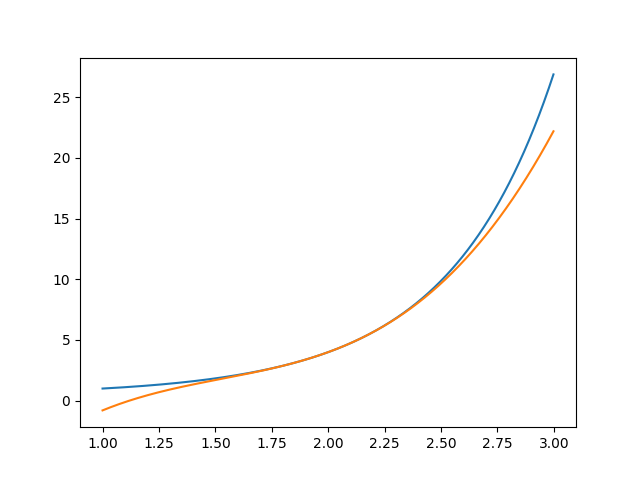
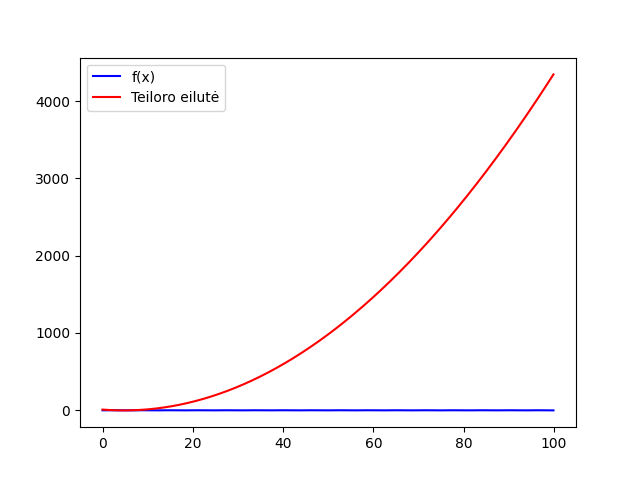
add plot legend

diff --git a/main.py b/main.py
@@ -73,7 +73,9 @@ class Taylor:
         taylor_exp_arr = list(map(taylor_exp_lambda, array))
         
         # Generate and display the plot here
-        pl = plt.plot(array, fx_arr, array, taylor_exp_arr)
+        plt.plot(array, fx_arr, "b-", label="f(x)")
+        plt.plot(array, taylor_exp_arr, "r-", label="Teiloro eilutė")
+        plt.legend(loc="upper left")
         plt.savefig("plot.png")
         self.plot_img = ImageTk.PhotoImage(file="plot.png")
         self.plot["image"] = self.plot_img
@@ -97,7 +99,7 @@ class Taylor:
         self.input_fn_label = ttk.Label(self.label_input_frame, text="f(x) =")
         self.input_fn_label.grid(column=1, row=1, sticky=(E, N))
         
-        self.x0_label = ttk.Label(self.label_input_frame, text="x =")
+        self.x0_label = ttk.Label(self.label_input_frame, text="x0 =")
         self.x0_label.grid(column=1, row=2, sticky=(E, N))
         
         self.xmin_label = ttk.Label(self.label_input_frame, text="min x =")
@@ -131,15 +133,14 @@ class Taylor:
         self.poly_degree_field.grid(column=2, row=5, sticky=(W, N))
         
         # "Aproksimuok" mygtukas
-        self.approximate_btn = ttk.Button(self.label_input_frame, text="Aproksimuok", command=self.calculate_taylor)
+        self.approximate_btn = ttk.Button(self.label_input_frame, text="Skaičiuok!", command=self.calculate_taylor)
         self.approximate_btn.grid(column=2, row=6, sticky=(N, E))
         
         for child in self.label_input_frame.winfo_children():
             child.grid_configure(padx=5, pady=5)
 
-# syntax: root(x, 5) = 5th degree root of x
+# notable syntax: root(x, 5) = 5th degree root of x
 # log(x, a) = log_a(x)
-# otherwise the syntax is standard as used in Lithuania
 def sanitize(fx):
     # Replacements to be made in the input:
     # ln -> log
